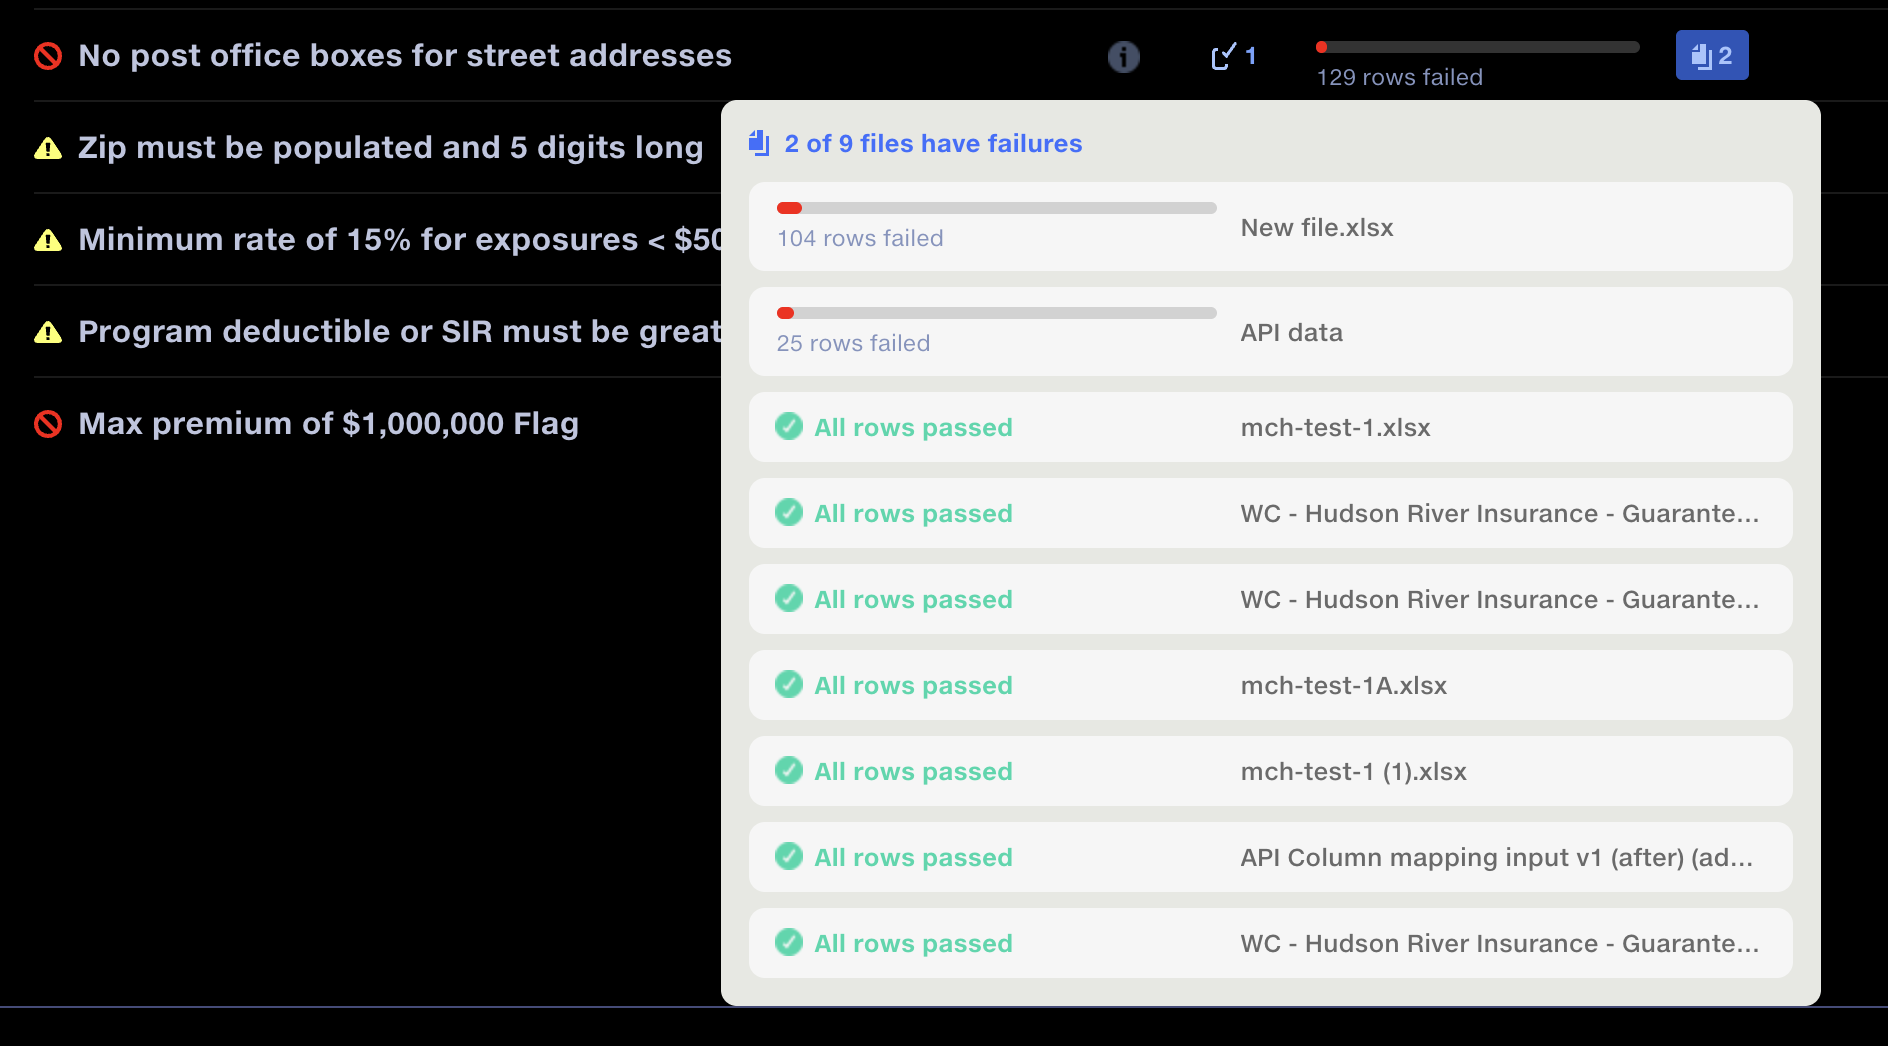
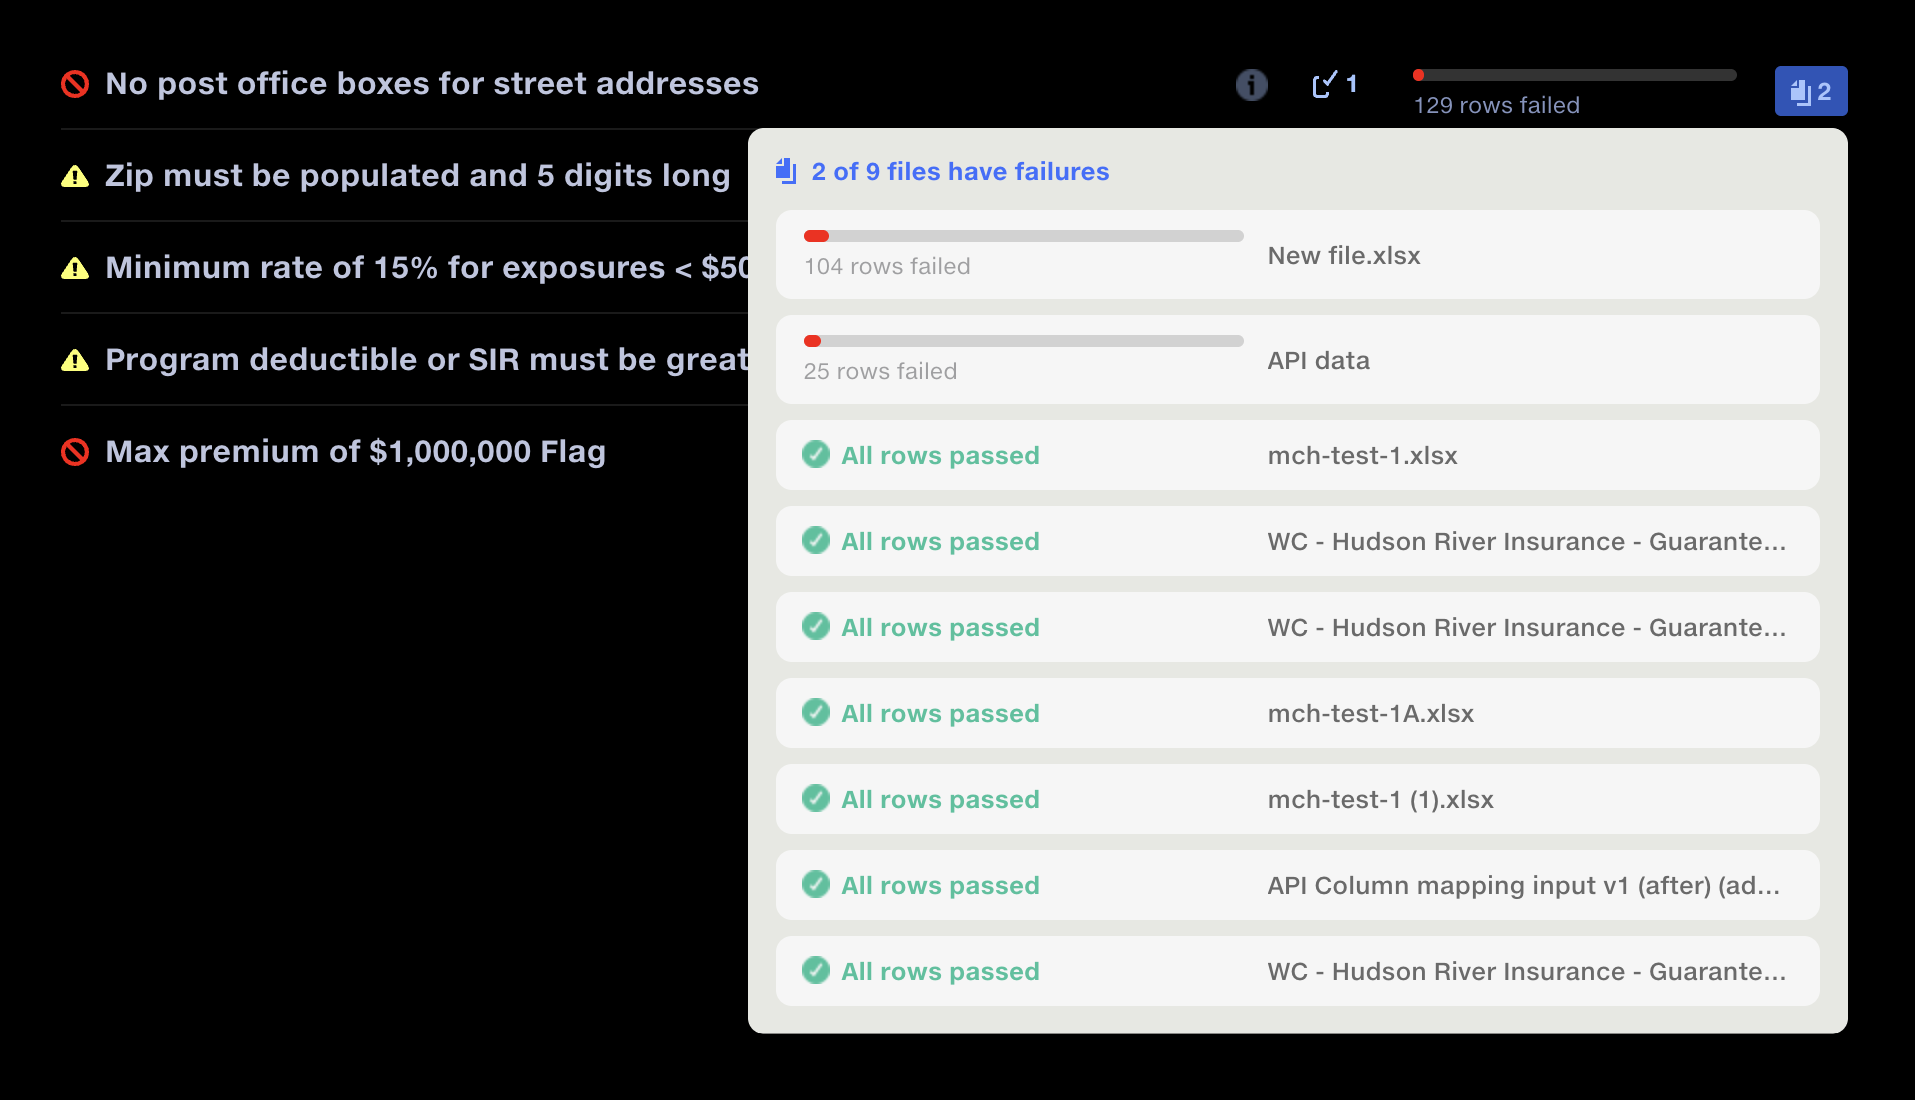
Validation: updated input selector screenshot

diff --git a/slides/validation.html b/slides/validation.html
@@ -323,7 +323,7 @@
 <section id="iw-skip" class="media-slide " data-title="Skip the input drill-down step"><div class="slide-layout"><header><p class="eyebrow">03 / Design decisions</p><h2>Skip the input drill-down step</h2><p class="strap">Go straight to the first failed input</p><button class="framing-head validation-trigger" type="button" data-dialog="navigation-validation" aria-haspopup="dialog" aria-controls="navigation-validation">
               <svg class="framing-icon" width="32" height="17" viewBox="0 0 46 25" fill="none" aria-hidden="true"><path d="M33.6895 2.85254L43.0039 12.167L33.6895 21.4814V24.3096L45.832 12.167L33.6895 0.0244141V2.85254Z" fill="#605F5F"/><path d="M0 12.167L12.167 24.334L22.916 13.585L33.6641 24.333V21.5049L24.3301 12.1709L24.334 12.167L24.3301 12.1631L33.6641 2.8291V0.000976562L22.916 10.749L12.167 0L0 12.167ZM21.502 12.1631L21.498 12.167L21.502 12.1709L12.167 21.5059L2.82812 12.167L12.167 2.82812L21.502 12.1631Z" fill="#00D8AA"/></svg>
               <span class="framing-label">Design validation</span>
-            </button></header><div class="media-stage"><img src="../case-studies/media/input-selector-2.png" width="1888" height="1046" alt="The input selection popup over the validation report: &lsquo;2 of 9 files have failures&rsquo;, listing each input file with its count of failed rows, or &lsquo;All rows passed&rsquo;."></div></div></section>
+            </button></header><div class="media-stage"><img src="../case-studies/media/input-selector-2.png" width="1915" height="1100" alt="The input selection popup over the validation report: &lsquo;2 of 9 files have failures&rsquo;, listing each input file with its count of failed rows, or &lsquo;All rows passed&rsquo;."></div></div></section>
 <section id="iw-navigation" class="media-slide portrait-media" data-title="Add direct rule navigation"><div class="slide-layout"><header><p class="eyebrow">03 / Design decisions</p><h2>Add direct rule navigation</h2><p class="strap">Move between rules without leaving the grid</p></header><div class="media-stage"><img src="../case-studies/media/direct-rule-navigation.png" width="924" height="580" alt="Previous rule and Next rule buttons above the data grid, for moving between validation rules without returning to the report."></div></div></section>
 <section id="iw-navigation-2" class="media-slide portrait-media" data-title="Add direct rule navigation"><div class="slide-layout"><header><p class="eyebrow">03 / Design decisions</p><h2>Add direct rule navigation</h2><p class="strap">Move between rules without leaving the grid</p></header><div class="media-stage"><img src="../case-studies/media/rule-navigator.png" width="1152" height="802" alt="The rule navigator dropdown over the data grid, listing every validation rule with its fail or warning icon, the current rule marked with a dot."></div></div></section>
 <section id="applying-corrections" class="full-video" data-title="Applying corrections"><video aria-label="Applying corrections" controls muted loop playsinline preload="metadata" poster="../case-studies/media/validation-hero-poster.jpg" data-autoplay><source src="../case-studies/media/validation-hero.mp4" type="video/mp4"></video></section>

diff --git a/case-studies/validation.html b/case-studies/validation.html
@@ -2253,7 +2253,7 @@
           </div>
           <div class="kd-slide" id="iw-skip" role="group" aria-roledescription="slide" aria-label="2 of 3">
             <figure class="figure kd-media">
-              <img src="media/input-selector-2.png" width="1888" height="1046" alt="The input selection popup over the validation report: &lsquo;2 of 9 files have failures&rsquo;, listing each input file with its count of failed rows, or &lsquo;All rows passed&rsquo;.">
+              <img src="media/input-selector-2.png" width="1915" height="1100" alt="The input selection popup over the validation report: &lsquo;2 of 9 files have failures&rsquo;, listing each input file with its count of failed rows, or &lsquo;All rows passed&rsquo;.">
             </figure>
             <div class="kd-text">
               <p class="kd-num" aria-hidden="true">02</p>
